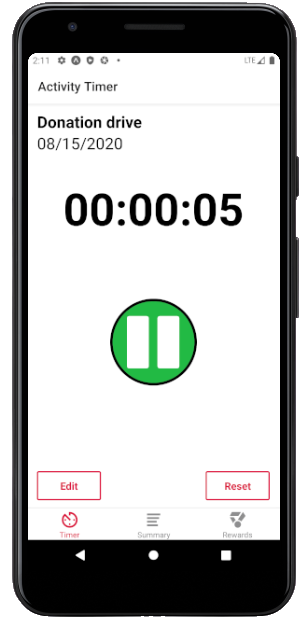
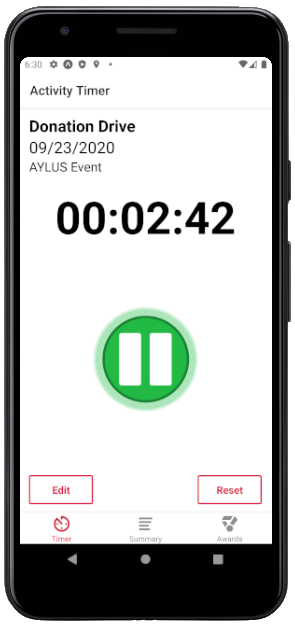
updated android screenshot and improved timer screen

diff --git a/components/ExportModal.js b/components/ExportModal.js
@@ -1,5 +1,5 @@
 import React, { Component } from "react";
-import { Alert, StyleSheet, Text, TouchableOpacity, View, Platform, TextInput, AsyncStorage} from "react-native";
+import { Alert, StyleSheet, Text, TouchableOpacity, View, Platform, TextInput } from "react-native";
 import TimerButton from '../components/TimerButton';
 import Modal from 'react-native-modal';
 import exportXlsx from '../components/ExportXlsx';
@@ -164,7 +164,7 @@ const styles = StyleSheet.create({
     },
     modalView: {
         margin: 0,
-        backgroundColor: "#eeeeee",
+        backgroundColor: Platform.OS === 'ios' ? "#eeeeee":'white',
         borderRadius: 10,
         padding: 15,
         alignItems: "center",

diff --git a/screens/TabOneScreen.tsx b/screens/TabOneScreen.tsx
@@ -33,8 +33,7 @@ export default class App extends React.Component {
   }
   componentDidMount = async () => {
     this._isMounted = true
-    const TIME_INTERVAL = 1000
-    console.log('screen 1 component mounted')
+    const TIME_INTERVAL = 200
     try{
       const timersString = await AsyncStorage.getItem('@SavedTimer');
       const retrievedTimerOpen= await AsyncStorage.getItem('@timerOpen');

diff --git a/components/MainTimerForm.js b/components/MainTimerForm.js
@@ -75,7 +75,6 @@ export default class MainTimerForm extends React.Component {
     const {label, show, mode, displayFormat, value } = this.state;
      return(
       <DateTimePicker
-        date={Platform.OS === 'ios' ? (value ? new Date(value) : new Date()):(value ? new Date() : new Date())}
         isVisible={show}
         mode={mode}
         onConfirm={this.handleDatePicked}
